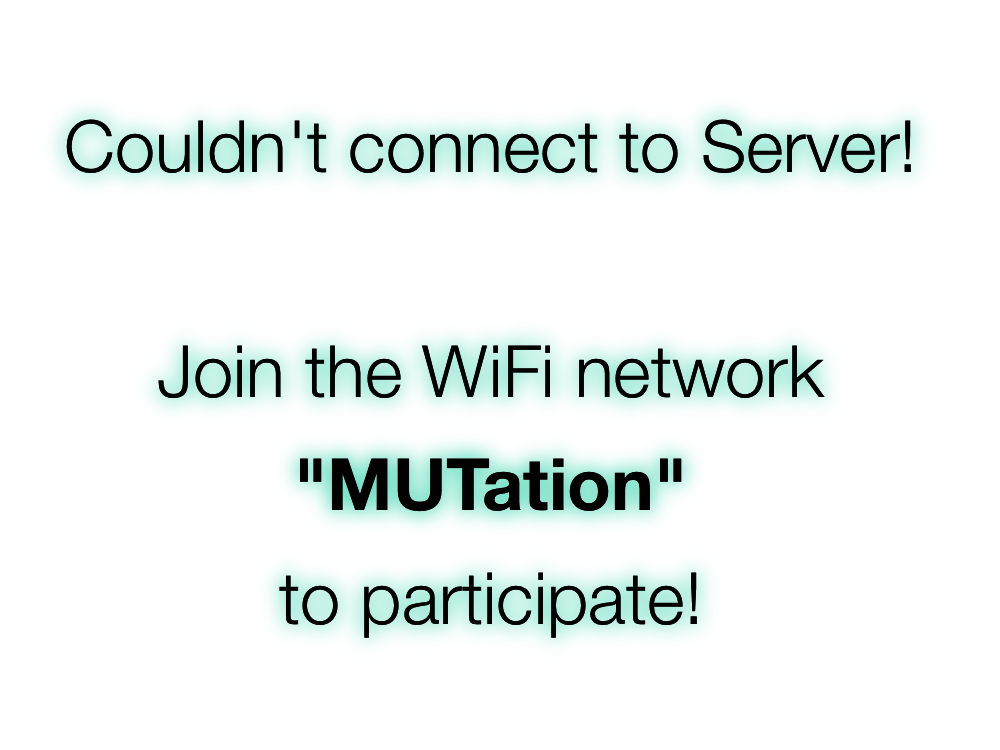
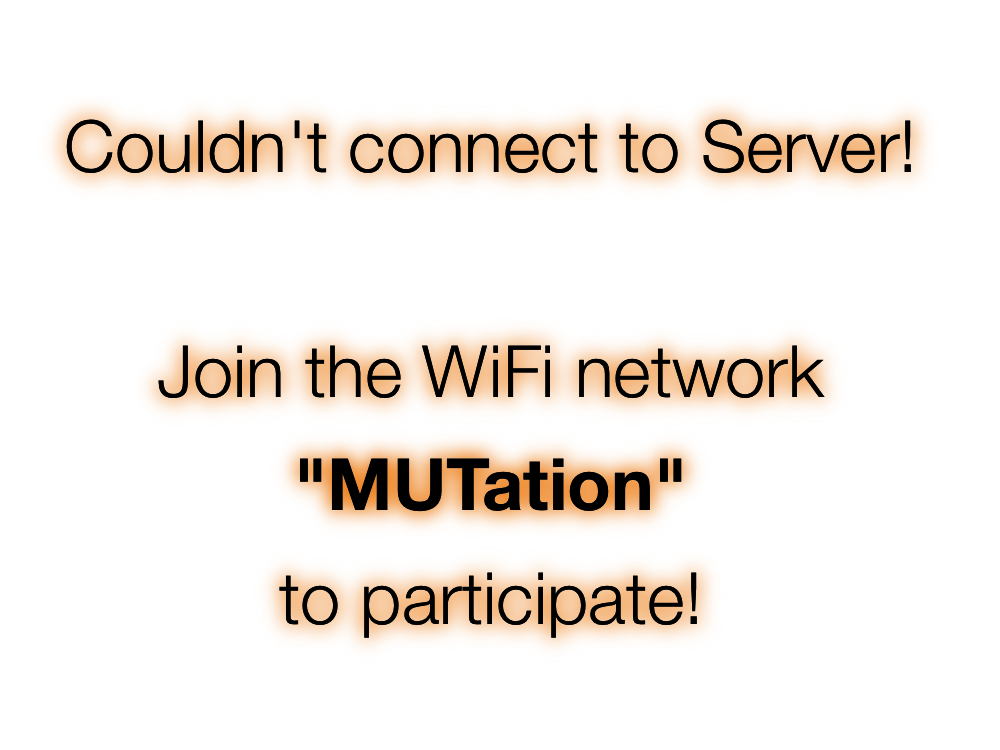
Updates to android app for 2015 version

diff --git a/Mutations/src/ofApp.cpp b/Mutations/src/ofApp.cpp
@@ -153,6 +153,7 @@ void ofApp::update(){
 		if( deltaTime > 3000 ){
 			ofLog(OF_LOG_WARNING, "trying to connect to tcp");
 			tcpClient.setup("10.0.0.5", 12333);
+//			tcpClient.setup("192.168.1.102", 12333);
 			connectTime = ofGetElapsedTimeMillis();
 		}
 	}
@@ -167,7 +168,7 @@ void ofApp::update(){
 
 //--------------------------------------------------------------
 void ofApp::draw(){
-	float foundBoard = false;
+	bool foundBoard = false;
 	ofClear(0);
     grabber.draw(drawOffset.x, drawOffset.y, drawSize.x, drawSize.y);
 
@@ -179,6 +180,7 @@ void ofApp::draw(){
     visiFbo.begin();
     ofClear(0);
     visiFbo.end();
+
     for (int i = 0; i < aruco.getNumBoards() && hitmapPlaneCounter < 3; i++) {
         if (aruco.getBoardProbabilities()[i] > 0.03) {
             // board is in view
@@ -218,8 +220,8 @@ void ofApp::draw(){
 //    hitmapFbo.draw(0, ofGetHeight()*2, ofGetWidth(), -ofGetHeight()*2);
 
     ofSetColor(ofColor(255, 255, 255, 255));
-//    visiFbo.draw(0, ofGetHeight()*2, ofGetWidth(), -ofGetHeight()*2);
-    if(tcpClient.isConnected() && foundBoard) {
+//    if(tcpClient.isConnected() && foundBoard) {
+    if(foundBoard) {
     	visiFbo.draw(drawOffset.x, drawOffset.y + drawSize.y, drawSize.x, drawSize.y * -1);
     }
 
@@ -235,13 +237,13 @@ void ofApp::draw(){
     /*
 	ofSetHexColor(0xF00FF0);
 	ofDrawBitmapString("fps: " + ofToString(ofGetFrameRate()),700,10);
-	ofDrawBitmapString("camera fps: " + ofToString(camera_fps),700,30);
+	//ofDrawBitmapString("camera fps: " + ofToString(camera_fps),700,30);
 	ofDrawBitmapString("Well done!",700,50);
     ofDrawBitmapString("markers detected: " + ofToString(aruco.getNumMarkers()),700, 70);
-    ofDrawBitmapString(ofToString(ofGetWidth()),700, 90);
-    ofDrawBitmapString(ofToString(ofGetHeight()),700, 110);
+    ofDrawBitmapString(ofToString(ofGetWidth()), 700, 90);
+    ofDrawBitmapString(ofToString(ofGetHeight()), 700, 110);
     ofDrawBitmapString(debugMsgStr, 700, 130);
-	*/
+    //*/
 }
 
 //--------------------------------------------------------------
@@ -346,7 +348,7 @@ void ofApp::touchUp(int x, int y, int id){
 		lastAutofocus = ofGetElapsedTimef();
 	}
     hitmapFbo.readToPixels(hitmapPixels);
-    ofLog(OF_LOG_WARNING, "Event!");
+    //ofLog(OF_LOG_WARNING, "Event!");
 
     // scale clicks to fbo size
 //    int fbox = (int)(x / (float)ofGetWidth() * grabber.getWidth());
@@ -362,9 +364,9 @@ void ofApp::touchUp(int x, int y, int id){
     bool foundPlane = false;
     int psurfid = -1;
     // cout << hitmapPlaneToBoard[0] << " " << hitmapPlaneToBoard[1] << " " << hitmapPlaneToBoard[2] << endl;
-    ofLog(OF_LOG_WARNING, "event" + ofToString(x) + " " + ofToString(y));
-    ofLog(OF_LOG_WARNING, "fbo-pos " + ofToString(fbox) + " " + ofToString(fboy));
-    ofLog(OF_LOG_WARNING, "Color " + ofToString(c));
+    //ofLog(OF_LOG_WARNING, "event" + ofToString(x) + " " + ofToString(y));
+    //ofLog(OF_LOG_WARNING, "fbo-pos " + ofToString(fbox) + " " + ofToString(fboy));
+    //ofLog(OF_LOG_WARNING, "Color " + ofToString(c));
     if(c.r > 0 && c.g > 0 && c.b == 0) {
         // plane 0
         ProjectionSurface psurf = projectionSurfaces[hitmapPlaneToBoard[0]];

diff --git a/Mutations/src/projectionSurface.cpp b/Mutations/src/projectionSurface.cpp
@@ -28,7 +28,8 @@ void ProjectionSurface::drawHitmap() {
 }
 
 void ProjectionSurface::drawVisu() {
-	ofSetColor(ofColor::white);
+//	ofSetColor(ofColor::white);
+	ofSetColor(ofColor(235, 116, 5, 255));
 	float x = size.x / -2.f;
 	float y = size.y / -2.f;
 	float w = size.x;
